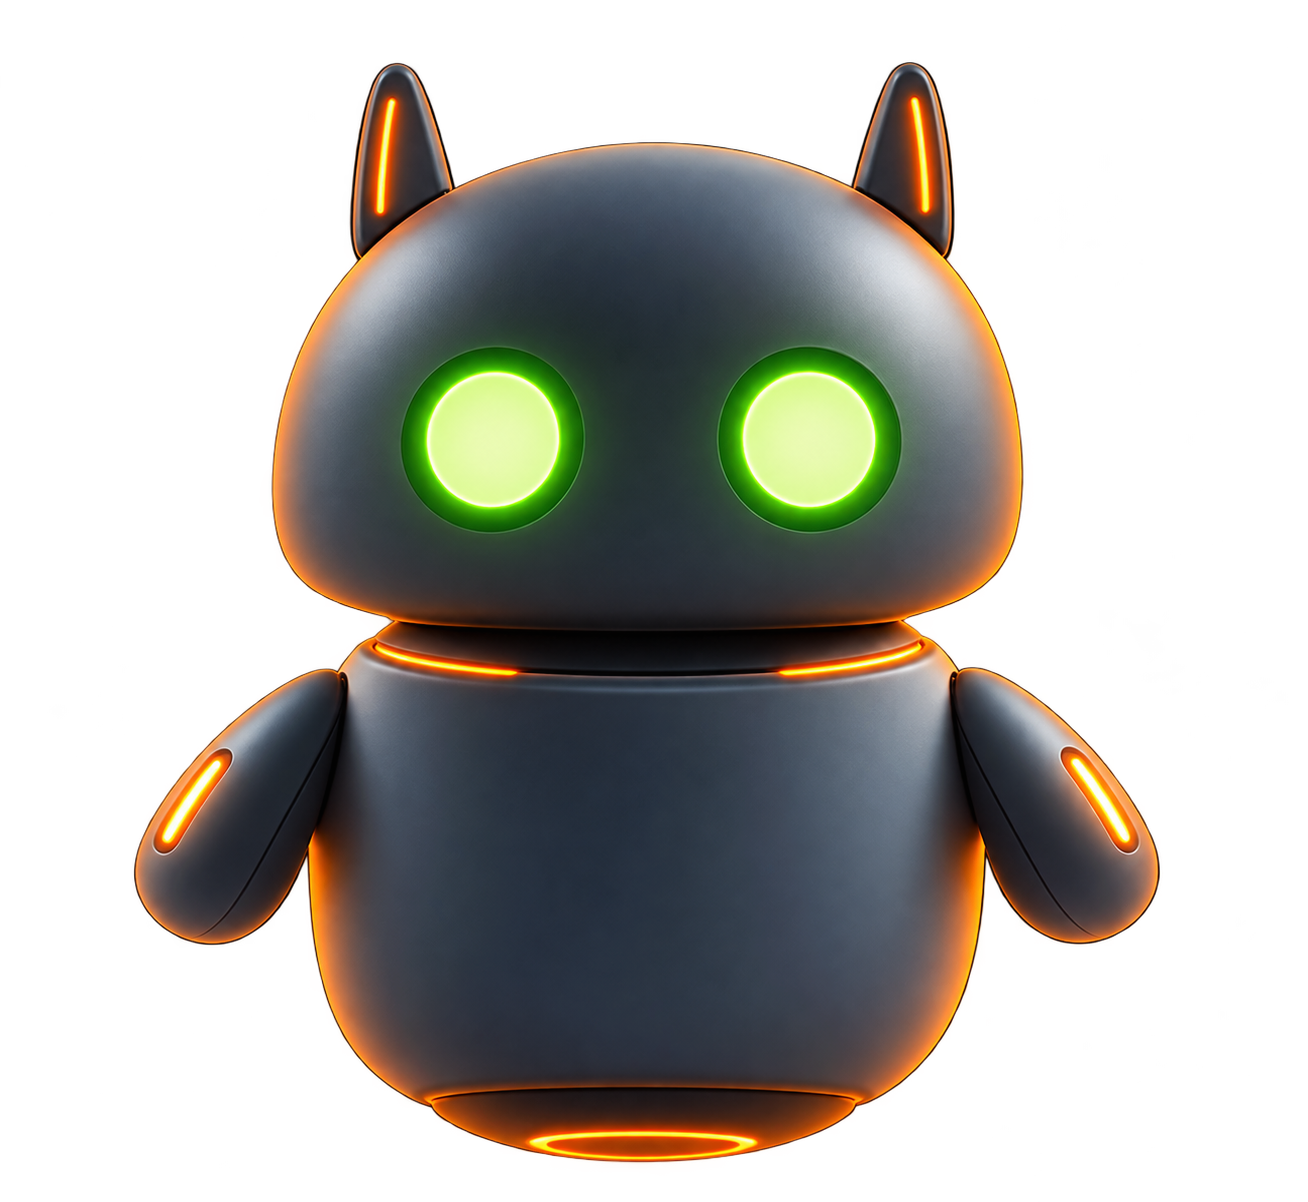
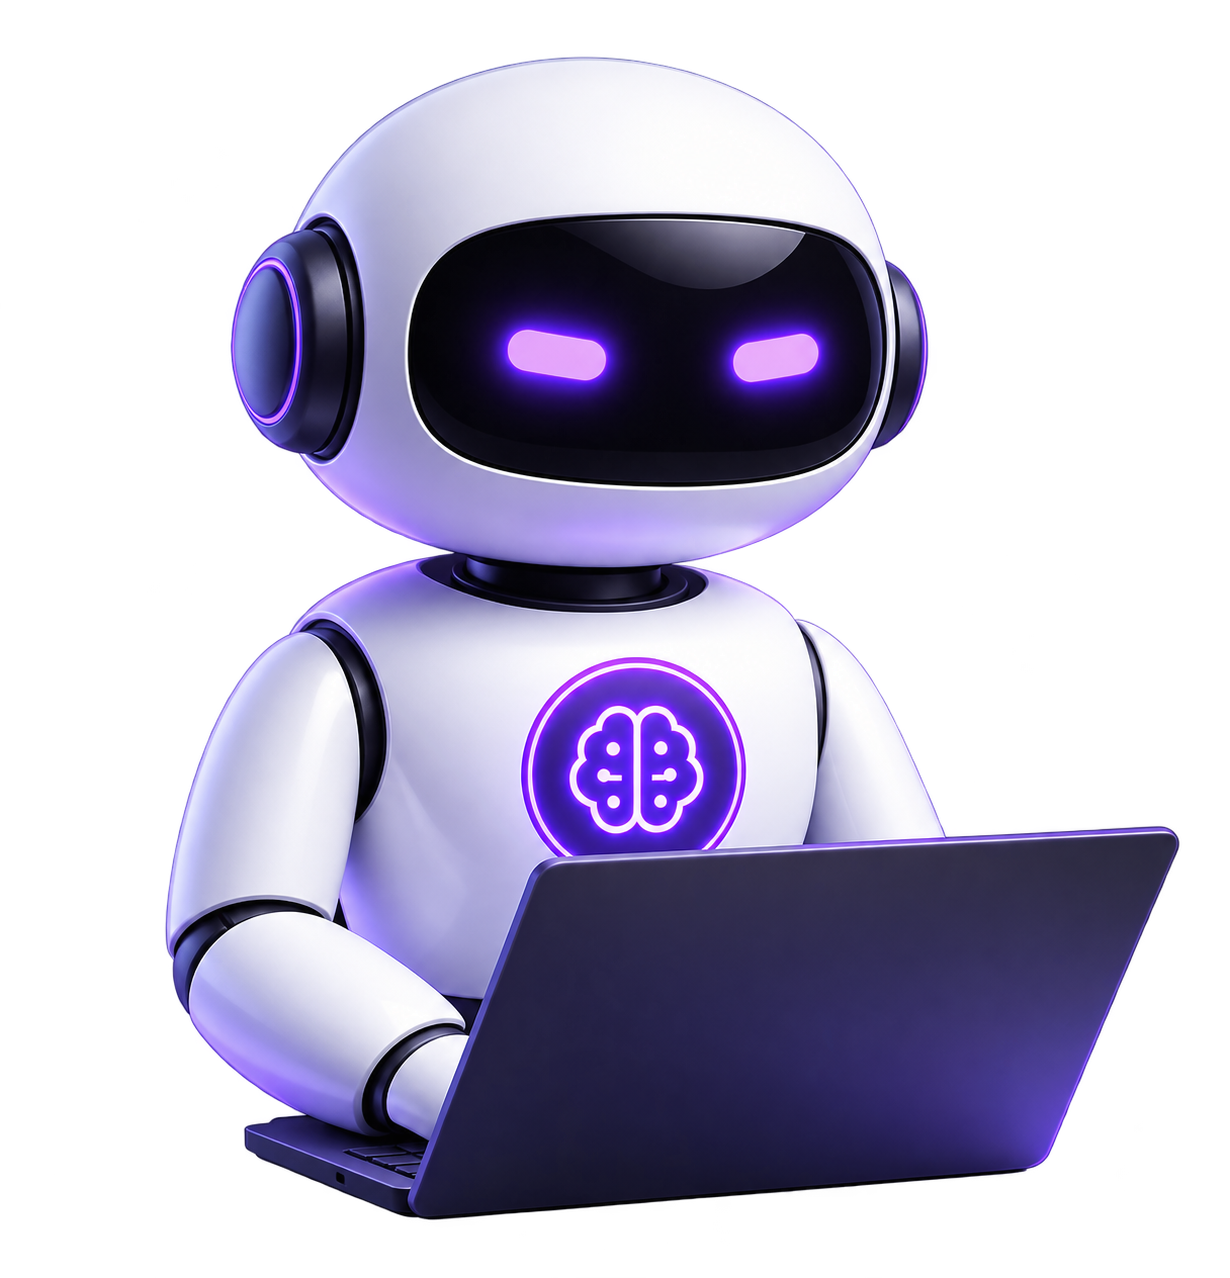
Refondre la page de connexion

diff --git a/dashboard.py b/dashboard.py
@@ -93,55 +93,41 @@ STATUS_LABEL = {
 }
 
 AUTH_CSS = """
-:root{--orange:#ff7a1a;--text:#f6f3ef;--muted:#9a9691;--line:#ffffff1a}
-*{box-sizing:border-box}body{margin:0;height:100vh;overflow:hidden;background:#080807;color:var(--text);
-font:15px/1.5 Inter,ui-sans-serif,system-ui,-apple-system,"Segoe UI",sans-serif;display:grid;place-items:center;padding:20px}
-.layout{width:min(1180px,100%);height:min(720px,calc(100vh - 40px));min-height:0;border:1px solid #ffffff14;
-border-radius:22px;overflow:hidden;background:#0d0d0c;box-shadow:0 32px 100px #000b;
-display:grid;grid-template-columns:1.12fr .88fr}
-.brand-panel{min-height:0;background-color:#0c0b09;background-image:linear-gradient(#ff9b2410 1px,transparent 1px),
-linear-gradient(90deg,#ff9b2410 1px,transparent 1px),radial-gradient(ellipse at 54% 42%,#46200d55,transparent 55%);
-background-size:42px 42px,42px 42px,auto;color:#fff;padding:34px 42px;display:flex;flex-direction:column;
-position:relative;overflow:hidden;border-right:1px solid #ffffff12}
-.brand-panel:before{content:"";position:absolute;width:520px;height:180px;right:-120px;top:90px;
-background:linear-gradient(115deg,transparent 35%,#ff7a1a35 48%,#ffc06a88 50%,#ff7a1a20 53%,transparent 68%);
-filter:blur(9px);transform:rotate(-12deg);pointer-events:none}
-.brand-panel:after{content:"";position:absolute;width:500px;height:500px;border:1px solid #ff8c2a20;
-border-radius:50%;left:50%;bottom:-340px;transform:translateX(-50%);box-shadow:0 0 0 38px #ff8c2a09,0 0 0 82px #ff8c2a06}
-.logo{display:flex;align-items:center;gap:11px;font-weight:750;font-size:1.05rem;position:relative;z-index:2}
-.logo-mark{width:36px;height:36px;border:1px solid #ff9b246b;border-radius:11px;background:#ff8a1a15;
-color:#ff9a3c;display:grid;place-items:center;font-size:.82rem;letter-spacing:-.05em}
-.product-tag{margin:40px 0 12px;padding:6px 10px;border:1px solid #ff9b243d;border-radius:99px;
-color:#ffc083;font-size:.68rem;font-weight:700;letter-spacing:.14em;width:max-content;position:relative;z-index:2}
-.pitch{position:relative;z-index:2;max-width:520px}.pitch h1{font-size:clamp(2.2rem,4vw,3.65rem);line-height:1.03;
-margin:0 0 18px;letter-spacing:-.055em;font-weight:720}.pitch h1 span{color:#ff9a42}
-.pitch p{color:#aaa6a0;max-width:440px;font-size:1rem;margin:0}
-.visual{position:relative;z-index:2;display:flex;align-items:center;justify-content:center;flex:1;min-height:0}
-.visual:before{content:"";position:absolute;left:0;right:0;top:50%;height:1px;
-background:linear-gradient(90deg,transparent 0,#ff8a1a45 12%,#ff8a1a45 39%,transparent 39% 61%,#ff8a1a45 61% 88%,transparent 100%)}
-.visual:after{content:"";position:absolute;top:0;bottom:50%;left:50%;width:1px;background:linear-gradient(180deg,transparent,#ff8a1a35)}
-.robot-core{position:relative;z-index:2;width:min(220px,55%);aspect-ratio:1;display:grid;place-items:center;
-border:1px solid #ff9b2438;border-radius:24px;background:radial-gradient(circle at 50% 60%,#411d0c66,#11100e 72%);
-box-shadow:0 0 36px #ff7a1a14,inset 0 0 24px #ff7a1a0a}
-.mascot{width:92%;height:92%;object-fit:contain;filter:drop-shadow(0 12px 26px #ff75172a)}
-.panel-foot{font-size:.76rem;color:#77736d;position:relative;z-index:2;letter-spacing:.02em}
-.form-panel{min-height:0;padding:38px clamp(30px,5vw,70px);display:flex;flex-direction:column;justify-content:center;background:#10100f}
-.secure{display:flex;align-items:center;gap:8px;color:#aaa49c;font-size:.76rem;margin-bottom:28px}
-.secure-dot{width:7px;height:7px;background:#62c995;border-radius:50%;box-shadow:0 0 12px #62c99588}
-.form-panel h2{font-size:1.9rem;letter-spacing:-.04em;margin:0 0 7px}.sub{color:var(--muted);margin:0 0 22px;font-size:.92rem}
-label{display:block;color:#e7e1d9;font-size:.82rem;font-weight:600;margin:13px 0 7px}
-input{width:100%;padding:13px 14px;border:1px solid #ffffff20;background:#0b0b0a;color:#fff;border-radius:9px;
+:root{--charcoal:#171717;--forest:#06110C;--crimson:#A31C1B;--text:#f4f2ef;--muted:#aaa7a2;--line:#ffffff20}
+*{box-sizing:border-box}body{margin:0;height:100vh;overflow:hidden;color:var(--text);
+font:15px/1.45 Inter,ui-sans-serif,system-ui,-apple-system,"Segoe UI",sans-serif;display:grid;place-items:center;padding:18px;
+background:radial-gradient(ellipse at 50% 0%,#12301f 0,transparent 48%),var(--forest)}
+.layout{position:relative;width:min(470px,100%);height:min(700px,calc(100vh - 36px));min-height:0;padding:24px 38px;
+border:1px solid #ffffff1a;border-radius:24px;overflow:hidden;background:var(--charcoal);box-shadow:0 30px 90px #0009;
+display:flex;flex-direction:column;align-items:center}
+.layout:before{content:"";position:absolute;inset:0;pointer-events:none;background:radial-gradient(ellipse at 50% 35%,#a31c1b18,transparent 58%)}
+.logo{display:flex;align-items:center;justify-content:center;gap:10px;font-weight:750;font-size:1.05rem;position:relative;z-index:1}
+.logo-mark{width:34px;height:34px;border:1px solid #a31c1b88;border-radius:10px;background:#a31c1b24;
+color:#f0b9b6;display:grid;place-items:center;font-size:.78rem;letter-spacing:-.05em}
+.product-tag{margin:12px 0 8px;padding:5px 9px;border:1px solid #a31c1b70;border-radius:99px;
+color:#e4aaa7;font-size:.62rem;font-weight:700;letter-spacing:.12em;width:max-content;position:relative;z-index:1}
+.pitch{position:relative;z-index:1;text-align:center;max-width:390px}.pitch h1{font-size:clamp(1.85rem,4vw,2.25rem);line-height:1.08;
+margin:0 0 8px;letter-spacing:-.045em;font-weight:720}.pitch h1 span{color:#d55b58}
+.pitch p{color:#aaa7a2;max-width:370px;font-size:.88rem;margin:0 auto}
+.visual{position:relative;z-index:1;display:flex;align-items:center;justify-content:center;flex:1;min-height:110px;width:100%}
+.mascot{width:170px;height:100%;max-height:170px;object-fit:contain;filter:drop-shadow(0 12px 28px #a31c1b30)}
+.secure{display:flex;align-items:center;justify-content:center;gap:8px;color:#aaa7a2;font-size:.74rem;margin:0 0 7px;position:relative;z-index:1}
+.secure-dot{width:7px;height:7px;background:#74bd89;border-radius:50%;box-shadow:0 0 10px #74bd8966}
+.auth-form{width:100%;position:relative;z-index:1}
+label{display:block;color:#e7e1d9;font-size:.8rem;font-weight:600;margin:9px 0 5px}
+input{width:100%;padding:10px 12px;border:1px solid #ffffff24;background:#101411;color:#fff;border-radius:9px;
 font:inherit;outline:none;transition:border-color .18s,box-shadow .18s}
-input:focus{border-color:var(--orange);box-shadow:0 0 0 3px #ff7a1a20}
-button{width:100%;margin-top:19px;border:0;border-radius:9px;background:linear-gradient(100deg,#ff8a24,#f06b12);
-color:#1d1008;padding:13px;font:inherit;font-weight:750;cursor:pointer;box-shadow:0 8px 26px #ff7a1a22;transition:transform .18s,filter .18s}
-button:hover{filter:brightness(1.08);transform:translateY(-1px)}
-.error{background:#2c1710;border:1px solid #87401f;color:#ffb08a;padding:11px 13px;border-radius:9px;margin:0 0 15px}
-.form-foot{margin-top:24px;padding-top:14px;border-top:1px solid #ffffff12;color:#77736d;font-size:.75rem}
-@media(max-width:760px){body{height:auto;min-height:100svh;overflow:auto;padding:0}.layout{width:100%;height:auto;min-height:100svh;
-border:0;border-radius:0;grid-template-columns:1fr}.brand-panel{min-height:430px;padding:24px 28px;border-right:0;border-bottom:1px solid #ffffff12}
-.product-tag{margin-top:34px}.pitch h1{font-size:clamp(2.3rem,11vw,3.25rem)}.visual{min-height:165px}.robot-core{width:150px;border-radius:20px}
-.form-panel{padding:34px 28px 40px}.secure{margin-bottom:20px}}
+input:focus{border-color:#a31c1b;box-shadow:0 0 0 3px #a31c1b25}
+button{width:100%;margin-top:14px;border:1px solid #bb3936;border-radius:9px;background:var(--crimson);
+color:#fff;padding:11px;font:inherit;font-weight:700;cursor:pointer;box-shadow:0 8px 22px #a31c1b30;transition:filter .18s}
+button:hover{filter:brightness(1.12)}
+.error{width:100%;position:relative;z-index:1;background:#351b1a;border:1px solid #a31c1b;color:#f4b9b7;padding:10px 12px;border-radius:9px;margin:0 0 8px}
+.form-foot{width:100%;margin-top:14px;padding-top:10px;border-top:1px solid #ffffff12;color:#817f7b;font-size:.7rem;text-align:center;position:relative;z-index:1}
+@media(max-height:680px) and (min-width:761px){.layout{height:calc(100vh - 24px);padding:16px 32px}.product-tag{margin:7px 0 5px}
+.pitch h1{font-size:1.8rem}.visual{min-height:80px}.mascot{width:130px;max-height:130px}.form-foot{margin-top:8px;padding-top:7px}}
+@media(max-width:760px){body{height:auto;min-height:100svh;overflow:auto;padding:0}.layout{width:min(470px,100%);height:auto;min-height:100svh;
+border:0;border-radius:0;padding:26px 30px 24px}.product-tag{margin-top:14px}.pitch h1{font-size:clamp(1.85rem,8vw,2.2rem)}
+.visual{min-height:155px}.mascot{width:165px;max-height:165px}.form-foot{margin-top:18px}}
 @media(prefers-reduced-motion:reduce){*,*:before,*:after{transition:none!important}}
 """
 
@@ -155,18 +141,16 @@ def auth_page(error=""):
 <button type="submit">Se connecter</button>"""
     return """<!doctype html><html lang="fr"><head><meta charset="utf-8">
 <meta name="viewport" content="width=device-width,initial-scale=1"><title>Connexion · InstaAgent</title>
-<style>{css}</style></head><body><div class="layout">
-<section class="brand-panel"><div class="logo"><span class="logo-mark">IA</span>InstaAgent</div>
+<style>{css}</style></head><body><main class="layout">
+<div class="logo"><span class="logo-mark">IA</span>InstaAgent</div>
 <div class="product-tag">INSTAGRAM COMMERCE AUTOMATION</div>
 <div class="pitch"><h1>Automate your growth <span>with InstaAgent.</span></h1>
 <p>Turn every Instagram conversation into a better customer experience.</p></div>
-<div class="visual"><div class="robot-core"><img class="mascot" src="/auth/mascot.png" alt="Mascotte robot InstaAgent"></div></div>
-<div class="panel-foot">SMARTER CONVERSATIONS · BETTER CUSTOMER EXPERIENCES</div></section>
-<section class="form-panel"><div class="secure"><span class="secure-dot"></span>Accès sécurisé propriétaire</div>
-<h2>Ravi de vous revoir</h2><p class="sub">Connectez-vous pour gérer votre espace InstaAgent.</p>{error}
-<form method="post" action="/login">{fields}</form>
-<div class="form-foot">Accès réservé à l’équipe InstaAgent.</div></section>
-</div></body></html>""".format(css=AUTH_CSS, error=error_html, fields=fields)
+<div class="visual"><img class="mascot" src="/auth/mascot.png" alt="Mascotte robot InstaAgent utilisant un ordinateur"></div>
+<div class="secure"><span class="secure-dot"></span>Accès sécurisé propriétaire</div>{error}
+<form class="auth-form" method="post" action="/login">{fields}</form>
+<div class="form-foot">Accès réservé à l’équipe InstaAgent.</div>
+</main></body></html>""".format(css=AUTH_CSS, error=error_html, fields=fields)
 
 
 @auth_router.get("/login", response_class=HTMLResponse)
